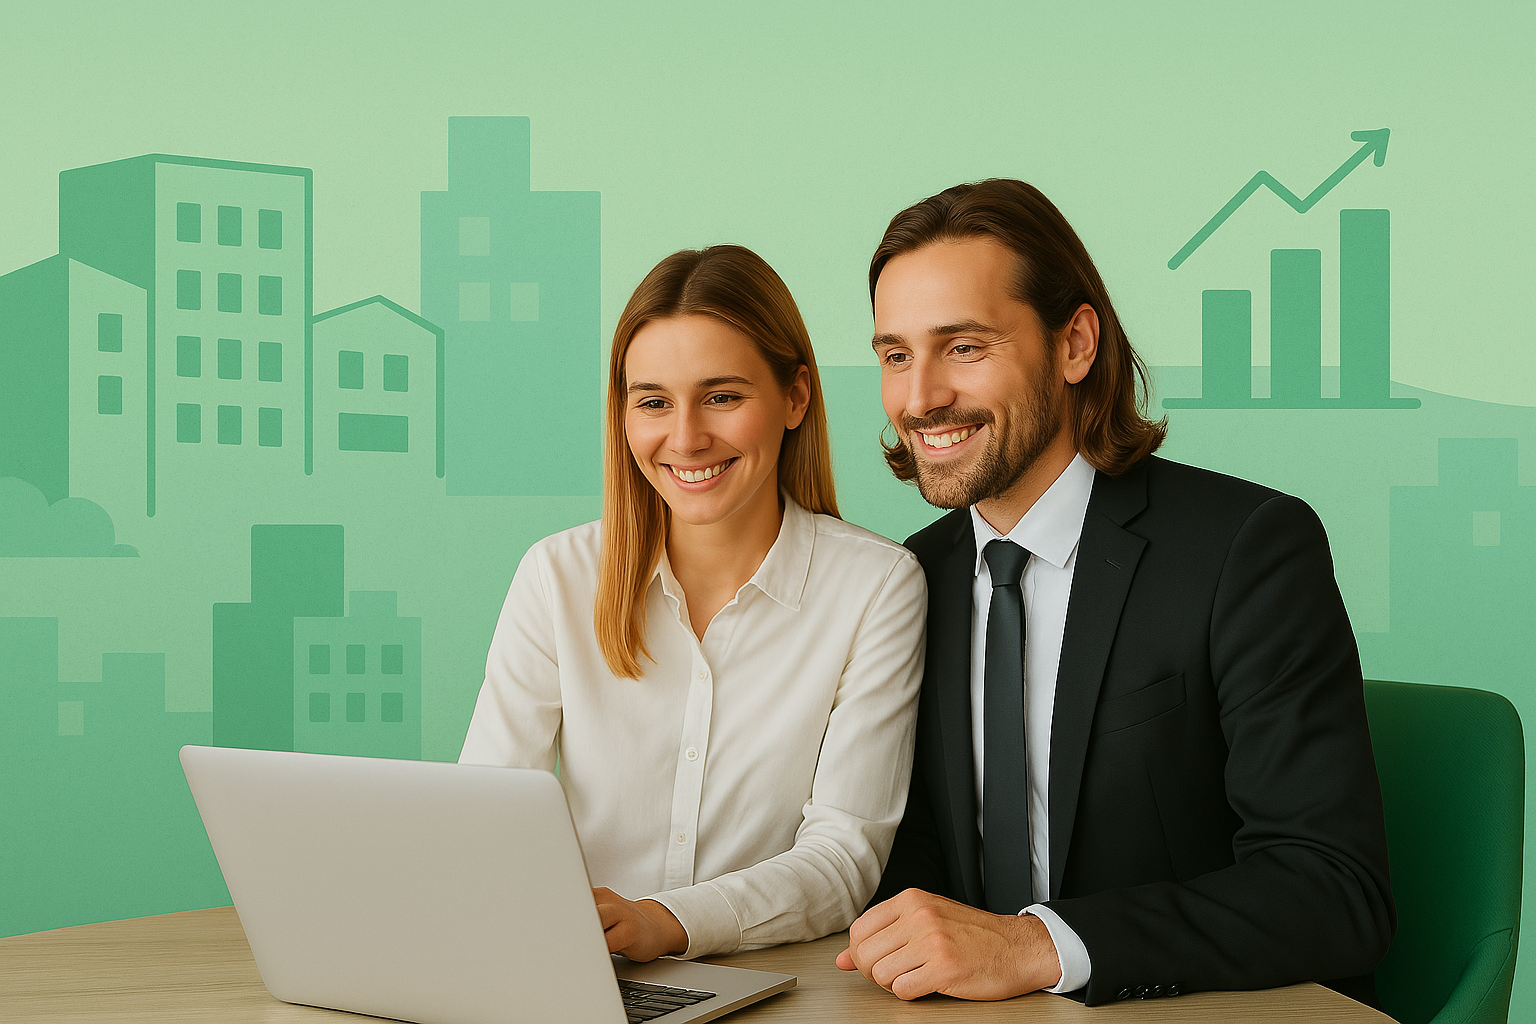
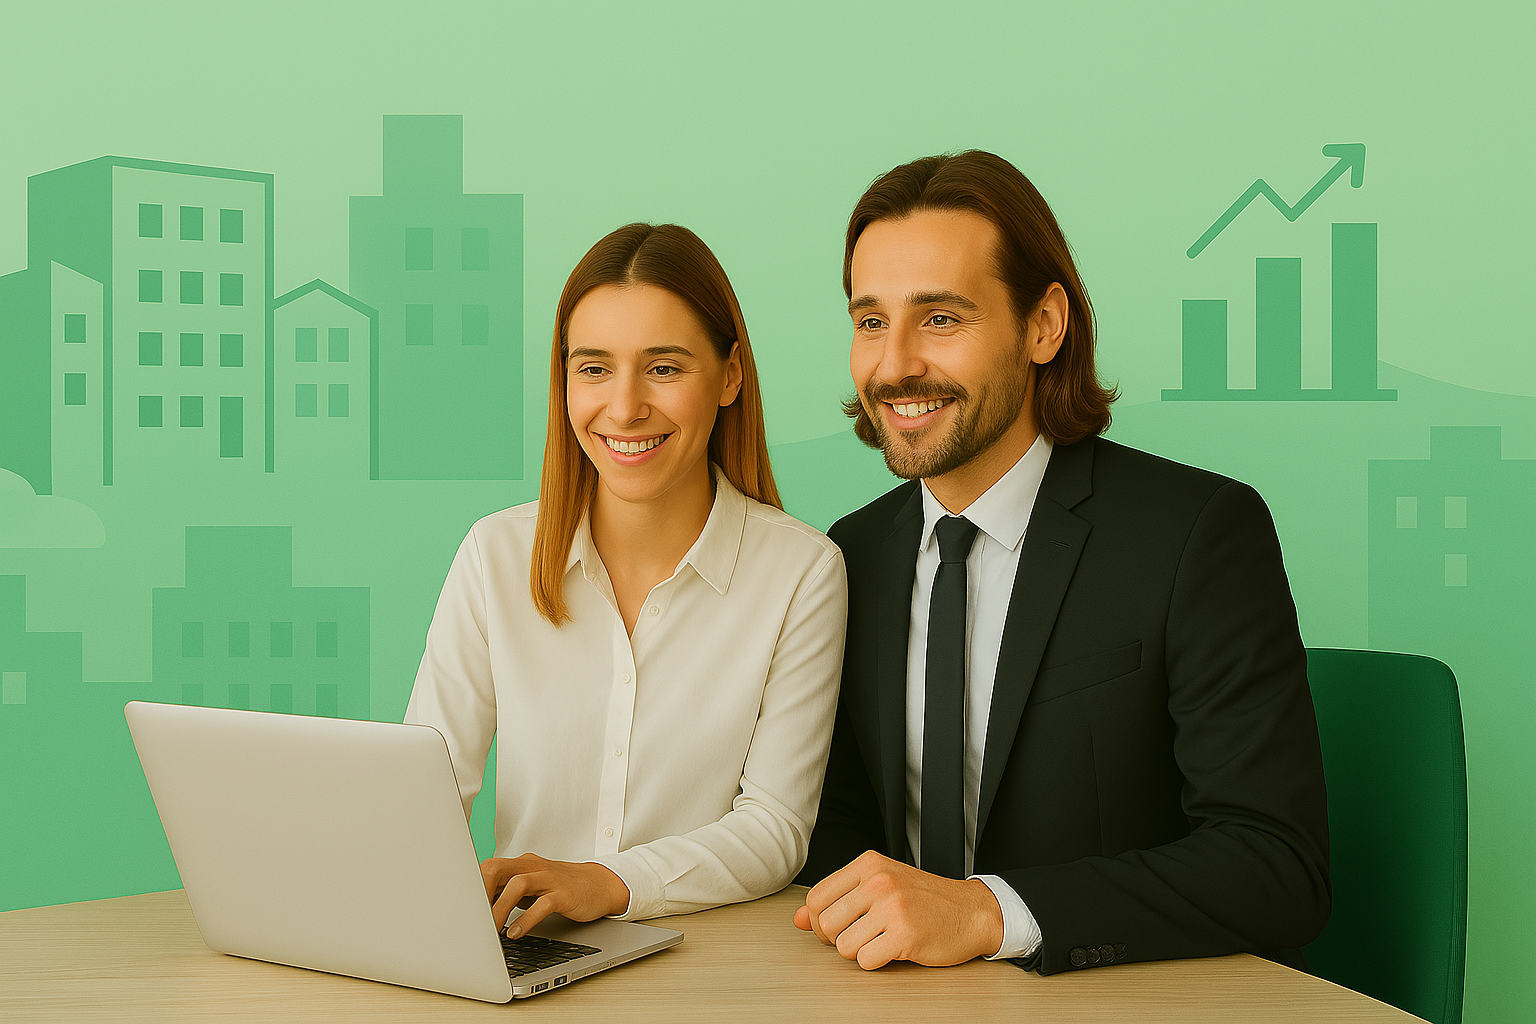
update all

diff --git a/src/app/contact/page.jsx b/src/app/contact/page.jsx
@@ -35,7 +35,7 @@ export default function ContactPage() {
       {/* Hero Section */}
       <div className="relative w-full h-[400px] pt-20 overflow-hidden">
         <Image
-          src="/images/contact-hero.jpg"
+          src="/images/contact-background.png"
           alt="Contact Hero"
           layout="fill"
           objectFit="cover"
